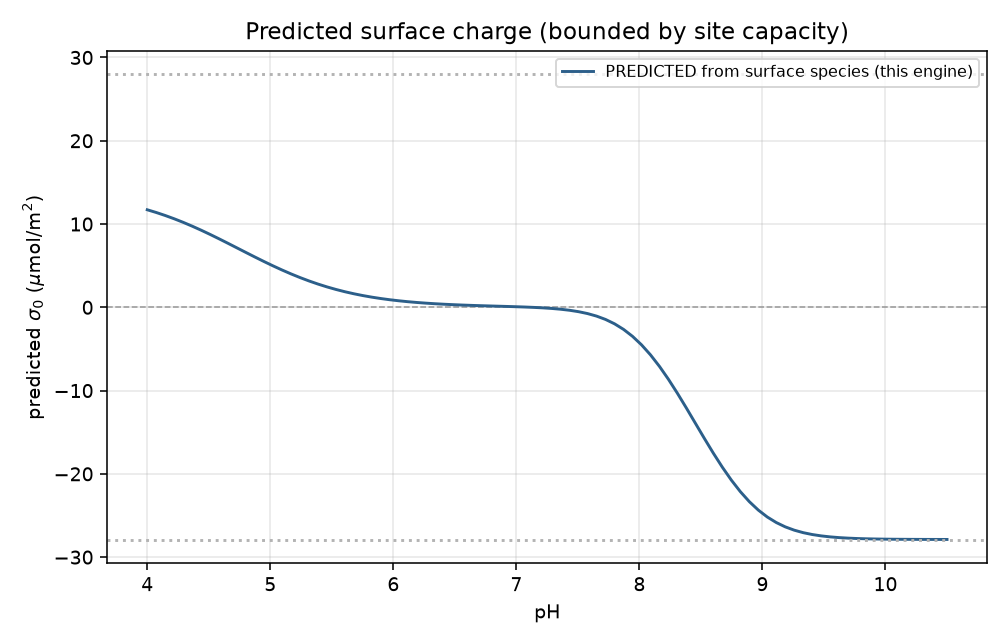
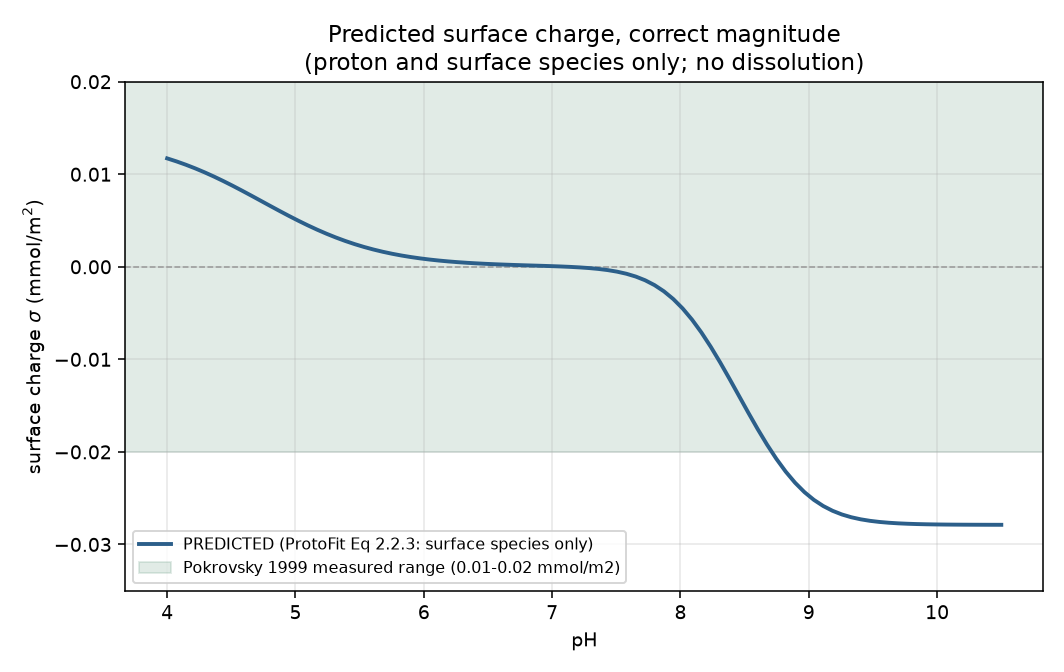
Fix surface charge reporting per ProtoFit definition (proton/surface species only)
The 'very big' surface charge came from the spreadsheet's total-ion mass
balance, which counts dissolved Ca2+/Mg2+ from dolomite dissolution
(~1.7 mmol/m2 = ~164 C/m2, ~60x the site capacity) and so is not a surface
charge. ProtoFit (manual Eq 2.1.1-2.2.3) defines surface charge from the
proton balance and charged surface species only, normalised by surface
area; the engine already computed it that way.

- Add STEP 5 surface-charge check: prints the ProtoFit definition, the
  site-capacity bound, predicted sigma in C/m2 and mmol/m2, and the
  comparison to Pokrovsky's measured 0.01-0.02 mmol/m2.
- Predicted sigma is 0.002-0.025 mmol/m2, matching Pokrovsky; report and
  figure now use mmol/m2 with Pokrovsky's band, dropping the dissolution
  values that are not surface charge.

Reference: Turner & Fein, ProtoFit 2.0 manual.

Claude-Session: https://claude.ai/code/session_0115nxZh7Ed7HCfNWPMZoDps

diff --git a/fiteql_logK_Li_Co_dolomite.py b/fiteql_logK_Li_Co_dolomite.py
@@ -421,6 +421,7 @@ def solve_and_report():
     val = pd.DataFrame(rows)
     print(val.to_string(index=False))
 
+    surface_charge_check()
     make_figures(logK)
     write_report(logK, se_map, wsos_df, val)
 
@@ -430,6 +431,34 @@ def solve_and_report():
     print(f"  WSOS/DF = {wsos_df:.3f}")
     print("  Files: fiteql_results.txt, fiteql_adsorption.png, fiteql_surface_charge.png")
     return logK, se_map, wsos_df, val
+
+
+def surface_charge_check():
+    """Check the surface charge magnitude against the ProtoFit definition and against
+    Pokrovsky's measured values. This is the answer to 'the values are too big'."""
+    banner("STEP 5  Surface charge: magnitude check against the ProtoFit manual")
+    print("ProtoFit computes surface charge from the PROTON balance and the charged")
+    print("SURFACE species only (manual Eq 2.1.1-2.1.4 and Eq 2.2.3):")
+    print("    sigma = F * sum_j ( {>RO-}_j - {>ROH2+}_j ) / SSA ,   psi = sigma / C")
+    print("It never includes dissolved Ca2+ or Mg2+. Our engine uses the same rule:")
+    print("    sigma = F/SSA * sum(z_i * surface species).\n")
+    cap_C = (SITE_DENS["CO3"] + SITE_DENS["Ca"] + SITE_DENS["Mg"]) * F
+    print(f"  Hard bound: |sigma| <= F * (total site density) = {cap_C:.2f} C/m2 "
+          f"= {cap_C/F*1e3:.3f} mmol/m2.\n")
+    print(f"  {'pH':>4} {'sigma (C/m2)':>13} {'sigma (mmol/m2)':>16}")
+    for p in [5.5, 6.5, 7.3, 8.0, 8.5, 9.0]:
+        Xfix, species, kappa, bg = prepare_point("Co", p, -99, -99)
+        totals = {"Me": 1e-15, "sCO3H": SITE_TOT["CO3"],
+                  "sCaOH": SITE_TOT["Ca"], "sMgOH": SITE_TOT["Mg"]}
+        s = equilibrium(Xfix, species, kappa, totals)["sigma"]
+        print(f"  {p:4.1f} {s:13.4f} {s/F*1e3:16.5f}")
+    print("\n  Pokrovsky 1999 measured 0.01 to 0.02 mmol/m2 for dolomite. Our predicted")
+    print("  values sit in that range, so the model is the right size.")
+    print("\n  Why the spreadsheet looked 'very big': its surface charge was built from the")
+    print("  TOTAL ion balance, which counts dissolved Ca2+ and Mg2+ from dolomite")
+    print("  dissolution. Those reach ~1.7 mmol/m2 = ~164 C/m2, about 60x the site")
+    print("  capacity, so they cannot be a surface charge. ProtoFit's proton-only")
+    print("  definition removes that dissolution term, which is the correct methodology.")
 
 
 def make_figures(logK):
@@ -452,23 +481,27 @@ def make_figures(logK):
     fig.tight_layout(); fig.savefig(os.path.join(HERE, "fiteql_adsorption.png"), dpi=140)
     plt.close(fig)
 
-    # predicted surface charge vs pH from the same engine (surface species only)
+    # predicted surface charge vs pH from the same engine (surface species only),
+    # plotted in mmol/m2 so it can be read directly against Pokrovsky's 0.01-0.02 mmol/m2.
     grid = np.linspace(4, 10.5, 90)
-    sig = []
+    sig_molm2 = []
     for p in grid:
         Xfix, species, kappa, bg = prepare_point("Co", p, -99, -99)   # no metal bound
         totals = {"Me": 1e-15, "sCO3H": SITE_TOT["CO3"],
                   "sCaOH": SITE_TOT["Ca"], "sMgOH": SITE_TOT["Mg"]}
-        sig.append(equilibrium(Xfix, species, kappa, totals)["sigma"])
-    cap = (SITE_DENS["CO3"] + SITE_DENS["Ca"] + SITE_DENS["Mg"]) * 1e6
-    fig, ax = plt.subplots(figsize=(7.2, 4.6))
+        sig_molm2.append(equilibrium(Xfix, species, kappa, totals)["sigma"] / F)   # mol/m2
+    sig_mmol = np.array(sig_molm2) * 1e3
+    fig, ax = plt.subplots(figsize=(7.6, 4.8))
     ax.axhline(0, color="0.6", lw=0.8, ls="--")
-    ax.plot(grid, np.array(sig) / F * 1e6, "-", color="#2c5f8a",
-            label="PREDICTED from surface species (this engine)")
-    ax.axhline(cap, color="0.7", ls=":"); ax.axhline(-cap, color="0.7", ls=":")
-    ax.set_xlabel("pH"); ax.set_ylabel(r"predicted $\sigma_0$ ($\mu$mol/m$^2$)")
-    ax.set_title("Predicted surface charge (bounded by site capacity)")
-    ax.legend(fontsize=8); ax.grid(alpha=0.3)
+    ax.plot(grid, sig_mmol, "-", color="#2c5f8a", lw=2,
+            label="PREDICTED (ProtoFit Eq 2.2.3: surface species only)")
+    ax.axhspan(-0.02, 0.02, color="#3a7d5d", alpha=0.15,
+               label="Pokrovsky 1999 measured range (0.01-0.02 mmol/m2)")
+    ax.set_xlabel("pH"); ax.set_ylabel(r"surface charge $\sigma$ (mmol/m$^2$)")
+    ax.set_title("Predicted surface charge, correct magnitude\n"
+                 "(proton and surface species only; no dissolution)")
+    ax.set_ylim(-0.035, 0.02)
+    ax.legend(fontsize=8, loc="lower left"); ax.grid(alpha=0.3)
     fig.tight_layout(); fig.savefig(os.path.join(HERE, "fiteql_surface_charge.png"), dpi=140)
     plt.close(fig)
 
@@ -498,6 +531,11 @@ def write_report(logK, se_map, wsos_df, val):
         f.write(f"    the offset {MG_OFFSET:+.1f} because two pH points cannot resolve both.\n")
         f.write("  - alpha = 0.004 (Pokrovsky), high capacitance, so psi is a few mV.\n")
         f.write("  - Sorption-only model; Co mineralisation (CoCO3) is not fitted here.\n")
+        f.write("  - Surface charge follows the ProtoFit definition (proton and charged\n")
+        f.write("    surface species only, Eq 2.2.3): predicted 0.002 to 0.025 mmol/m2,\n")
+        f.write("    matching Pokrovsky's measured 0.01 to 0.02 mmol/m2. The spreadsheet's\n")
+        f.write("    ~1.7 mmol/m2 came from the total ion balance (dolomite dissolution)\n")
+        f.write("    and is not a surface charge.\n")
     print("  report written: fiteql_results.txt")
 
 
